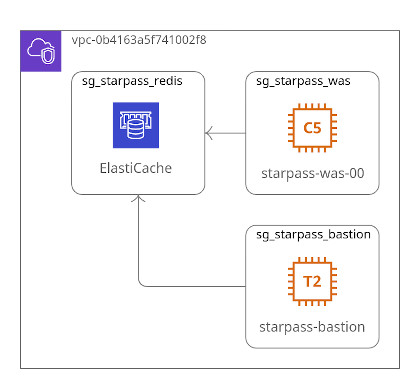
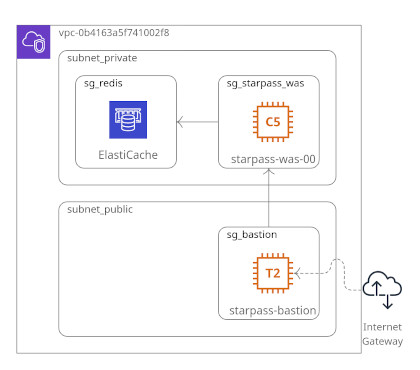
.

diff --git a/elasticache.md b/elasticache.md
@@ -12,15 +12,15 @@
 ![diagram](./assets/images/ElastiCache.jpg)
 
 
-### VPC
-- VPC : CIDR 172.20.0.0/16
-  - e.g. 172.20.0.0 ~ 172.20.255.255
+#### VPC
+- CIDR 172.20.0.0/16
+- e.g. 172.20.0.0 ~ 172.20.255.255
 
 
-### 인터넷게이트웨이
+#### 인터넷 게이트웨이
 - VPC에 Attach
 
-### 서브넷, 라우트테이블
+#### 서브넷, 라우팅 테이블
 - 퍼블릭
   - 서브넷 : CIDR 172.20.0.0/24 (현재는 VPC 내 로컬에서만 접근 가능-private)
   - 라우트테이블
@@ -32,7 +32,7 @@
   - 라우트테이블
     - '서브넷연결' 탭 > 위의 서브넷 연결하여 프라이빗으로 만듦
 
-### 보안그룹
+#### 보안 그룹
 - EC2용
   - SG (TCP port 6379 open) with a VPC above for ElastiCache cluster
 
@@ -40,7 +40,7 @@
   - ElastiCache : with SG above && create subnetgroup that uses same VPC as above
   - EC2 : with a new SG with inbound port 22 for SSH
 
-### EC2
+#### EC2
 - 퍼블릭 IP자동할당 : 'Enable'
 - 다음 커멘드 라인으로 redis클라이언트 설치
 
@@ -61,9 +61,9 @@ sudo apt install redis
 ```
 
 
-### ElastiCache-redis 생성
+#### ElastiCache-redis 생성
 - 서브넷그룹은 위에서 생성된 VPC, 퍼블릭서브넷을 선택
 
-### 테스트
+#### 테스트
 - 위의 VPC, 퍼블릭서브넷으로 생성된 EC2에서만 ElasticCache접근 확인
 - 다른 VPC 또는 프라이빗서브넷으로 생성된 EC2에서는 접근 불가
